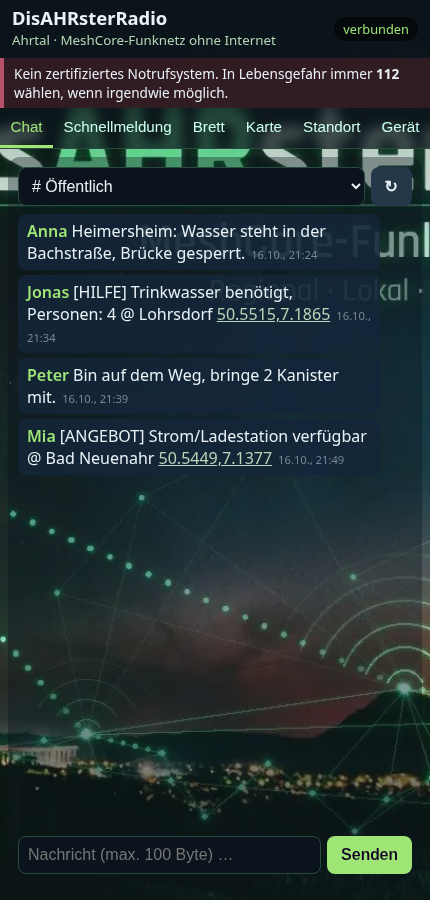
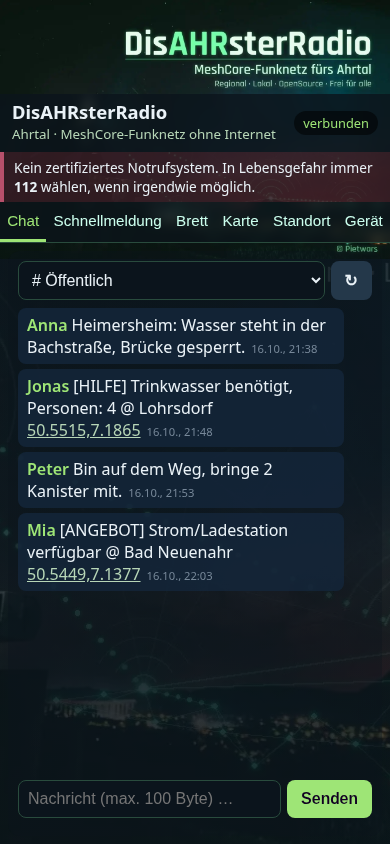
Hintergrundbild: volle Breite inkl. Schriftzug auf allen Bildschirmen

diff --git a/web/index.html b/web/index.html
@@ -7,9 +7,9 @@
 <style>
 :root{font-family:system-ui,-apple-system,sans-serif;color:#eaf2f7;color-scheme:dark;--line:#294b3d;--mesh:#9ee576;--sage:#b7d6b7;--wine:#b7506b;--card:#14263ad9}
 *{box-sizing:border-box}body{margin:0;min-height:100vh;display:flex;flex-direction:column}html{background:#0b141c}
-body::before{content:"";position:fixed;inset:0;z-index:-2;background:#0b141c url(bg.webp) 58% 80%/cover no-repeat;}
-body::after{content:"";position:fixed;inset:0;z-index:-1;background:linear-gradient(180deg,#0b141c55 0%,#0b141c00 40%,#0b141c00 70%,#0b141c88 100%)}
-@media (min-width:900px){body{max-width:900px;margin:0 auto;width:100%}body::before{background-position:center 55%}}
+body::before{content:"";position:fixed;inset:0;z-index:-2;background:url(bg.webp) top center/min(100vw,1083px) auto no-repeat,linear-gradient(#0b141cb8,#0b141cb8),url(bg.webp) center 70%/cover no-repeat;}
+body::after{content:"";position:fixed;inset:0;z-index:-1;pointer-events:none;background:linear-gradient(180deg,#0b141c00 0,#0b141c00 min(24vw,260px),#0b141c66 min(40vw,430px),#0b141c33 100%)}
+@media (min-width:900px){body{max-width:900px;margin:0 auto;width:100%}}
 header{position:sticky;top:0;z-index:5;display:flex;align-items:center;gap:8px;padding:8px 12px;background:#0b141ccc;backdrop-filter:blur(6px);-webkit-backdrop-filter:blur(6px)}
 header .t{flex:1}header h1{margin:0;font-size:1.15rem;line-height:1.1}header small{color:var(--sage)}
 #st{padding:3px 9px;border-radius:12px;font-size:.8rem;background:#0008}
@@ -41,7 +41,10 @@ h2{margin:4px 0;font-size:1.05rem}
 .small{font-size:.8rem}
 #admin{display:none;flex-direction:column;gap:6px}
 section h2,section p,.row label{text-shadow:0 1px 3px #000,0 0 8px #000}
+.hero{height:min(24vw,260px);flex:none}
+@media (min-width:1100px){body::before{background:linear-gradient(#0b141c00 560px,#0b141c 722px) top center/100% 100% no-repeat,linear-gradient(90deg,#0b141c,#0b141c00 3%,#0b141c00 97%,#0b141c) top center/1083px 722px no-repeat,url(bg.webp) top center/1083px auto no-repeat,#0b141c}}
 </style></head><body>
+<div class="hero" aria-hidden="true"></div>
 <header><div class="t"><h1>DisAHRsterRadio</h1><small>Ahrtal · MeshCore-Funknetz ohne Internet</small></div><div id="st" class="bad">getrennt</div></header>
 <div class="warn">Kein zertifiziertes Notrufsystem. In Lebensgefahr immer <b>112</b> wählen, wenn irgendwie möglich.</div>
 <nav><button data-tab="chat" class="on">Chat</button><button data-tab="quick">Schnellmeldung</button><button data-tab="board">Brett</button><button data-tab="map">Karte</button><button data-tab="loc">Standort</button><button data-tab="info">Gerät</button></nav>

diff --git a/examples/companion_radio/PortalPage.h b/examples/companion_radio/PortalPage.h
@@ -10,9 +10,9 @@ static const char PORTAL_PAGE[] PROGMEM = R"DRPAGE(<!doctype html>
 <style>
 :root{font-family:system-ui,-apple-system,sans-serif;color:#eaf2f7;color-scheme:dark;--line:#294b3d;--mesh:#9ee576;--sage:#b7d6b7;--wine:#b7506b;--card:#14263ad9}
 *{box-sizing:border-box}body{margin:0;min-height:100vh;display:flex;flex-direction:column}html{background:#0b141c}
-body::before{content:"";position:fixed;inset:0;z-index:-2;background:#0b141c url(bg.webp) 58% 80%/cover no-repeat;}
-body::after{content:"";position:fixed;inset:0;z-index:-1;background:linear-gradient(180deg,#0b141c55 0%,#0b141c00 40%,#0b141c00 70%,#0b141c88 100%)}
-@media (min-width:900px){body{max-width:900px;margin:0 auto;width:100%}body::before{background-position:center 55%}}
+body::before{content:"";position:fixed;inset:0;z-index:-2;background:url(bg.webp) top center/min(100vw,1083px) auto no-repeat,linear-gradient(#0b141cb8,#0b141cb8),url(bg.webp) center 70%/cover no-repeat;}
+body::after{content:"";position:fixed;inset:0;z-index:-1;pointer-events:none;background:linear-gradient(180deg,#0b141c00 0,#0b141c00 min(24vw,260px),#0b141c66 min(40vw,430px),#0b141c33 100%)}
+@media (min-width:900px){body{max-width:900px;margin:0 auto;width:100%}}
 header{position:sticky;top:0;z-index:5;display:flex;align-items:center;gap:8px;padding:8px 12px;background:#0b141ccc;backdrop-filter:blur(6px);-webkit-backdrop-filter:blur(6px)}
 header .t{flex:1}header h1{margin:0;font-size:1.15rem;line-height:1.1}header small{color:var(--sage)}
 #st{padding:3px 9px;border-radius:12px;font-size:.8rem;background:#0008}
@@ -44,7 +44,10 @@ h2{margin:4px 0;font-size:1.05rem}
 .small{font-size:.8rem}
 #admin{display:none;flex-direction:column;gap:6px}
 section h2,section p,.row label{text-shadow:0 1px 3px #000,0 0 8px #000}
+.hero{height:min(24vw,260px);flex:none}
+@media (min-width:1100px){body::before{background:linear-gradient(#0b141c00 560px,#0b141c 722px) top center/100% 100% no-repeat,linear-gradient(90deg,#0b141c,#0b141c00 3%,#0b141c00 97%,#0b141c) top center/1083px 722px no-repeat,url(bg.webp) top center/1083px auto no-repeat,#0b141c}}
 </style></head><body>
+<div class="hero" aria-hidden="true"></div>
 <header><div class="t"><h1>DisAHRsterRadio</h1><small>Ahrtal · MeshCore-Funknetz ohne Internet</small></div><div id="st" class="bad">getrennt</div></header>
 <div class="warn">Kein zertifiziertes Notrufsystem. In Lebensgefahr immer <b>112</b> wählen, wenn irgendwie möglich.</div>
 <nav><button data-tab="chat" class="on">Chat</button><button data-tab="quick">Schnellmeldung</button><button data-tab="board">Brett</button><button data-tab="map">Karte</button><button data-tab="loc">Standort</button><button data-tab="info">Gerät</button></nav>
